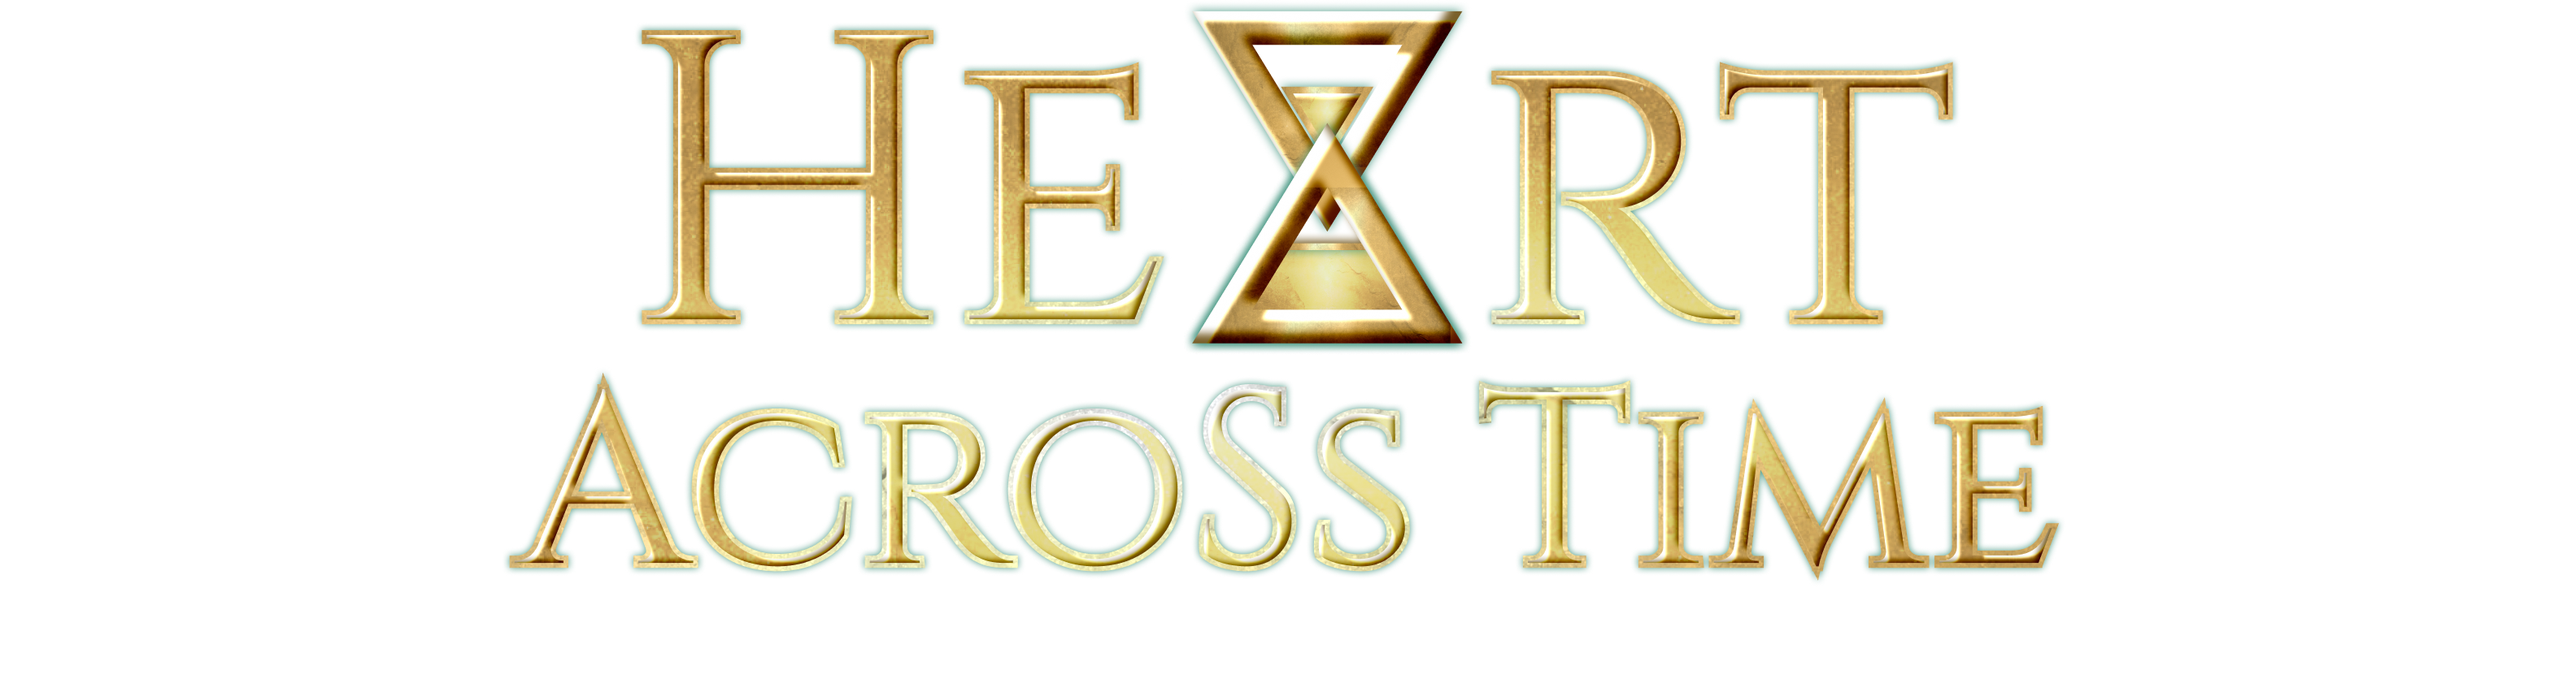
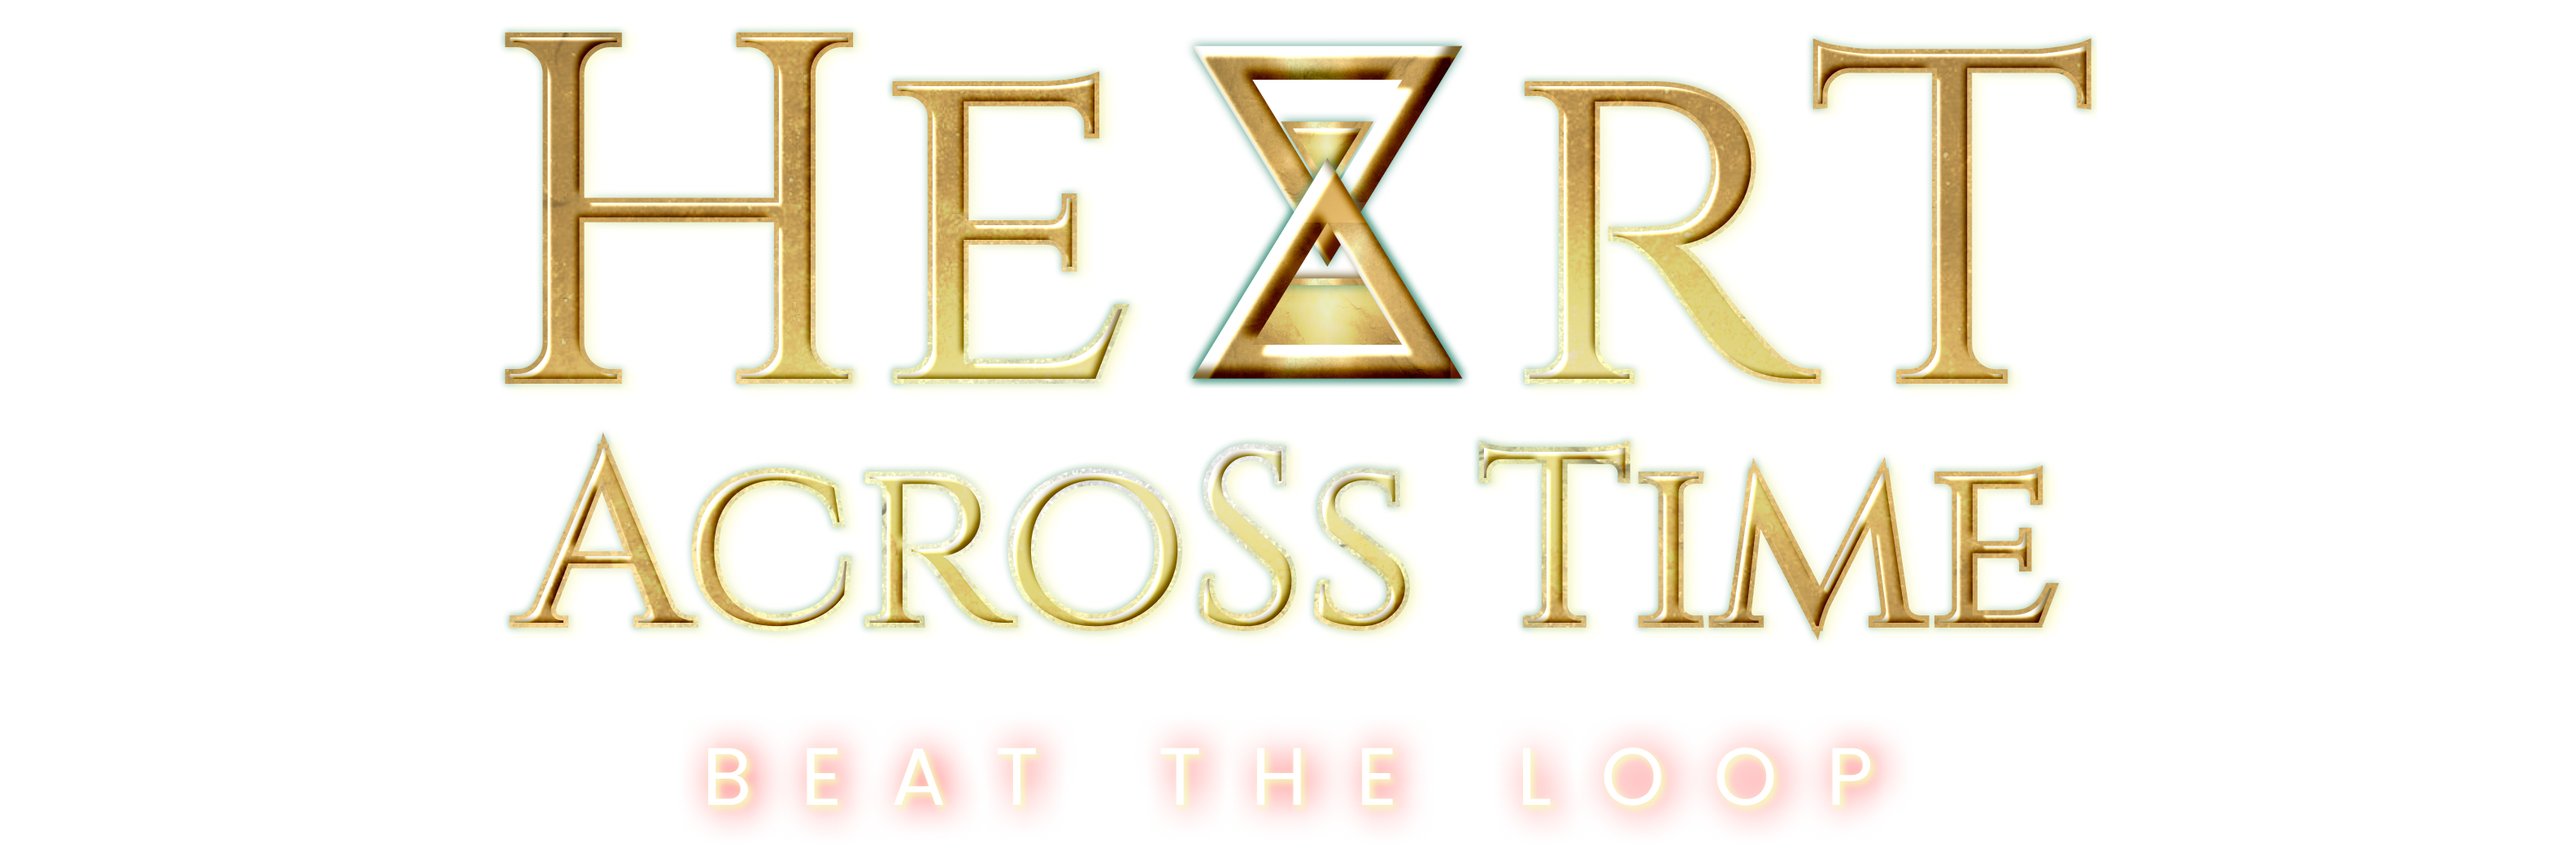
Fiks puzzle babak 1 babak 2

Changed region(s): [[0.1875, 0.0, 0.8125, 0.9708], [0.5938, 0.8495, 0.75, 0.9708], [0.4375, 0.8798, 0.5625, 0.9708]]

diff --git a/src/render/screens.js b/src/render/screens.js
@@ -380,6 +380,20 @@ function drawBonus(c){const b=G.bonus;drawBonusCity(c,b);const n=Object.keys(b.l
 function drawBonusEnd(c){const be=G.bonusEnd,im=AS.imgs.bonus_city_complete;drawCoverImage(c,im,1.01,0,0);c.fillStyle='rgba(4,9,14,.34)';c.fillRect(0,0,W,H);
   c.save();c.translate(390,GROUND+12);c.scale(1.45,1.45);groundShadow(c);drawElena(c,T,0,false,'warm');c.restore();c.save();c.translate(570,GROUND+12);c.scale(-1.45,1.45);groundShadow(c);drawArthur(c,'dewasa',T,'warm');c.restore();
   const a=OPTS.reduceMotion?1:easeO(clamp(be.t*2.2,0,1));c.save();c.globalAlpha=a;sketchRR(c,155,72,650,164,9);c.textAlign='center';c.fillStyle='#94342E';c.font='bold 24px '+F_UI;c.fillText(be.page?'LINGKARAN TELAH PUTUS':'TAHUN 2088 — HARI PERTAMA',W/2,116);c.fillStyle='#2B211A';c.font='18px '+F_UI;const text=be.page?'Kota ini hidup karena setiap akhir yang berani kau hadapi. Elena dan Arthur akhirnya memiliki hari esok.':'Untuk pertama kalinya, masa depan tidak meminta Elena kembali ke masa lalu.';wrap(c,text,555).forEach((ln,i)=>c.fillText(ln,W/2,155+i*25));c.fillStyle='#6A5B4B';c.font='13px '+F_UI;c.fillText(be.t>1?'ENTER / SENTUH UNTUK MELANJUTKAN':'…',W/2,217);c.restore();}
+function drawTitleSignal(c,t){
+  if(OPTS.reduceMotion)return;
+  // Dua frame Figma menjadi dua keadaan sinyal: stabil dan sesaat terbelah.
+  // Lapisan ini selesai digambar sebelum menu agar tombol dan hit-area tidak ikut bergeser.
+  const ph=t%5.2,pulse=ph<.13?1-ph/.13:ph>.92&&ph<1.04?1-Math.abs(ph-.98)/.06:ph>3.34&&ph<3.48?1-Math.abs(ph-3.41)/.07:0;
+  c.save();c.globalAlpha=.055;c.fillStyle='#B8D8F4';for(let y=5;y<H;y+=7)c.fillRect(0,y,W,1);
+  if(pulse>0){
+    const bands=[[24,10,-9],[79,7,12],[126,16,-15],[183,8,10],[248,11,-7],[337,6,13],[421,13,-11],[487,7,8]];
+    bands.forEach((b,i)=>{const y=b[0],h=b[1],dx=b[2]*pulse;c.save();c.beginPath();c.rect(0,y,W,h);c.clip();c.globalAlpha=.7*pulse;c.drawImage(c.canvas,0,y,W,h,dx,y,W,h);c.globalCompositeOperation='screen';c.globalAlpha=.2*pulse;c.fillStyle=i%2?'#E64D76':'#47D9DE';c.fillRect(dx,y,W,h);c.restore();});
+    c.globalCompositeOperation='screen';c.globalAlpha=.16*pulse;c.fillStyle='#E9C66B';c.fillRect(0,116+Math.sin(t*31)*14,W,2+4*pulse);
+    c.globalAlpha=.2*pulse;c.fillStyle='#07101F';c.fillRect(0,276+Math.cos(t*23)*38,W,3);
+  }
+  c.restore();
+}
 function drawCover(c) {
   const mot = OPTS.reduceMotion ? 0 : 1, t = T, pul = mot ? .5 + .5 * Math.sin(t * 1.6) : .5, im = AS.imgs.title_cover_figma;
   const zoom = 1.015 + mot * .012 * Math.sin(t * .18), panX = mot * Math.sin(t * .13) * 5, panY = mot * Math.cos(t * .16) * 3;
@@ -395,6 +409,7 @@ function drawCover(c) {
   // Kode teks prosedural di-comment out karena diganti gambar:
   // else{goldTitle(c,'HE',W/2-86,132,66);goldTitle(c,'RT',W/2+84,132,66);c.save();c.shadowColor=`rgba(255,223,135,${.55+.3*pul})`;c.shadowBlur=16+8*pul;drawHourglass(c,W/2,101,1.72,t);c.restore();goldTitle(c,'ACROSS TIME',W/2,191,43);}
   // c.save();c.textAlign='center';c.font='400 14px '+F_META;c.fillStyle='#FFFDF4';c.strokeStyle='rgba(7,8,18,.78)';c.lineWidth=3;c.shadowColor='rgba(245,255,196,.8)';c.shadowBlur=7;spacedText(c,'BREAK THE LOOP',W/2,225,7);c.restore();
+  drawTitleSignal(c,t);
   // Peta waktu prosedural: hasil yang belum ditemukan tetap berupa segel tanpa spoiler.
   const years=['1944','1968','1999','2088'],xs=[250,403,557,710],my=242;c.save();c.strokeStyle='rgba(242,210,125,.55)';c.lineWidth=2;c.beginPath();c.moveTo(xs[0],my);for(let i=1;i<xs.length;i++){c.quadraticCurveTo((xs[i-1]+xs[i])/2,my+(i%2?14:-14),xs[i],my);}c.stroke();
   years.forEach((y,i)=>{c.fillStyle=i===0||SAVE.game&&+SAVE.game.era>=+y?'#F1D58B':'rgba(245,240,232,.5)';c.beginPath();c.arc(xs[i],my,7,0,TAU);c.fill();c.font='11px '+F_META;c.textAlign='center';c.fillText(y,xs[i],my+23);});
@@ -444,7 +459,7 @@ function drawChallenge(c){const ch=G.challenge,cfg=CHALLENGE_CONF[ch.era];c.fill
     c.fillStyle=PAL.hairEs;c.beginPath();c.arc(0,-27,6,Math.PI,0);c.fill();c.restore();
     const dv=(ch.det||0)/.42; // vignette merah mengikuti deteksi
     if(dv>0){const vg=c.createRadialGradient(W/2,H/2,H*.22,W/2,H/2,H*.62);vg.addColorStop(0,'rgba(170,30,30,0)');vg.addColorStop(1,`rgba(190,30,30,${.42*dv})`);c.fillStyle=vg;c.fillRect(0,0,W,H);}
-    c.fillStyle='#2B211A';c.font='bold 15px '+F_UI;c.fillText('LUNCUR ANTARA KARUNG SAMPAI GARIS — JANGAN TERTANGKAP SOROT',W/2,214);
+    c.fillStyle='#2B211A';c.font='bold 15px '+F_UI;c.fillText('LUNCUR ANTARA KARUNG — SEKALI TERSOROT, KEMBALI KE AWAL',W/2,214);
     c.fillStyle='#6A5B4B';c.font='13px '+F_UI;c.fillText(IS_TOUCH?'tahan ◀ / ▶ di bawah layar untuk berlari':'← → lari antara karung',W/2,352);
   } else if(cfg.mode==='balance'){ // P1: dua meter krio saling tarik
     const meter=(v,col,lbl,y)=>{
@@ -486,15 +501,16 @@ function drawRosePuzzle(c){const rp=G.rosePuzzle;if(!rp)return;c.fillStyle='rgba
   rp.pieces.forEach((p,i)=>{const d=ROSE_PIECES[i],selected=rp.sel===i&&!p.placed;c.save();if(selected){c.shadowColor='rgba(196,59,66,.65)';c.shadowBlur=15;}rosePiecePath(c,d.poly,p.ox,p.oy);c.clip();drawRoseBottleArt(c,ROSE_TARGET.x+p.ox,ROSE_TARGET.y+p.oy,ROSE_TARGET.w,ROSE_TARGET.h);c.restore();c.save();c.strokeStyle=p.placed?'#567A61':selected?'#94342E':'rgba(43,33,26,.72)';c.lineWidth=selected?3:1.7;rosePiecePath(c,d.poly,p.ox,p.oy);c.stroke();if(!p.placed){const q=d.poly[0];c.fillStyle=selected?'#94342E':'#5A4A3C';c.font='bold 12px '+F_META;c.textAlign='center';c.fillText(String(i+1),ROSE_TARGET.x+q[0]+p.ox+14,ROSE_TARGET.y+q[1]+p.oy+18);}c.restore();});
   if(rp.stage==='success'){c.fillStyle='rgba(243,234,218,.96)';c.fillRect(125,155,710,215);c.save();c.shadowColor='rgba(180,62,75,.35)';c.shadowBlur=18;drawRoseBottleArt(c,W/2-112,172,224,192);c.restore();c.fillStyle='#567A61';c.font='bold 27px '+F_UI;c.fillText('BOTOL MAWAR KEMBALI UTUH',W/2,218);c.fillStyle='#2B211A';c.font='16px '+F_UI;c.fillText('Mawar di dalamnya tidak pernah layu.',W/2,338);return;}
   c.fillStyle=rp.feedbackT>0?(rp.feedback.startsWith('KEPINGAN')?'#567A61':'#A83E38'):'#2B211A';c.font='bold 15px '+F_UI;c.fillText(rp.feedbackT>0?rp.feedback:'Seret setiap kepingan ke bayangan botol di tengah.',W/2,414);c.fillStyle='#6A5B4B';c.font='13px '+F_UI;c.fillText(IS_TOUCH?'Seret kepingan • lepaskan tepat saat tepinya menyatu':'Seret dengan mouse • atau 1–8 pilih, ← ↑ ↓ → gerak, SPACE pasang',W/2,446);}
-function drawGemShape(c,x,y,rx,ry,alpha,shadow){const sx=.38+.62*Math.abs(Math.cos(ry)),sy=.5+.5*Math.abs(Math.cos(rx));c.save();c.translate(x,y);c.rotate(ry*.17);c.scale(sx,sy);c.globalAlpha=alpha;c.shadowColor=shadow?'transparent':'rgba(93,220,255,.65)';c.shadowBlur=shadow?0:22;const im=AS.imgs.water_gem_art;
-  if(im&&im.width){if(shadow)c.filter='brightness(0)';c.drawImage(im,650,45,1700,1450,-92,-92,184,184);c.filter='none';}else{const g=shadow?'rgba(25,32,42,.72)':c.createLinearGradient(-80,-80,80,80);if(!shadow){g.addColorStop(0,'#E9FFFF');g.addColorStop(.3,'#76DDEE');g.addColorStop(.62,'#4C78B3');g.addColorStop(1,'#D8FCFF');}c.fillStyle=g;c.beginPath();c.moveTo(0,-92);c.lineTo(74,-34);c.lineTo(60,63);c.lineTo(-18,92);c.lineTo(-78,28);c.lineTo(-65,-48);c.closePath();c.fill();if(!shadow){c.strokeStyle='#D9FBFF';c.lineWidth=3;c.stroke();c.beginPath();c.moveTo(0,-92);c.lineTo(-10,15);c.lineTo(60,63);c.moveTo(-65,-48);c.lineTo(-10,15);c.lineTo(74,-34);c.moveTo(-78,28);c.lineTo(-10,15);c.lineTo(-18,92);c.stroke();}}
+function drawGemShape(c,x,y,rx,ry,alpha,shadow,size=268,grey=false){const sx=.38+.62*Math.abs(Math.cos(ry)),sy=.5+.5*Math.abs(Math.cos(rx)),half=size/2,k=size/184;c.save();c.translate(x,y);c.rotate(ry*.17);c.scale(sx,sy);c.globalAlpha=alpha;c.shadowColor=shadow?'transparent':'rgba(93,220,255,.65)';c.shadowBlur=shadow?0:22;const im=AS.imgs.water_gem_art;
+  if(im&&im.width){c.imageSmoothingEnabled=true;c.imageSmoothingQuality='high';if(shadow)c.filter=grey?'brightness(0) invert(.42)':'brightness(0)';c.drawImage(im,650,45,1700,1450,-half,-half,size,size);c.filter='none';}else{const g=shadow?(grey?'#6B6B6B':'#050505'):c.createLinearGradient(-80*k,-80*k,80*k,80*k);if(!shadow){g.addColorStop(0,'#E9FFFF');g.addColorStop(.3,'#76DDEE');g.addColorStop(.62,'#4C78B3');g.addColorStop(1,'#D8FCFF');}c.fillStyle=g;c.beginPath();c.moveTo(0,-92*k);c.lineTo(74*k,-34*k);c.lineTo(60*k,63*k);c.lineTo(-18*k,92*k);c.lineTo(-78*k,28*k);c.lineTo(-65*k,-48*k);c.closePath();c.fill();if(!shadow){c.strokeStyle='#D9FBFF';c.lineWidth=3;c.stroke();c.beginPath();c.moveTo(0,-92*k);c.lineTo(-10*k,15*k);c.lineTo(60*k,63*k);c.moveTo(-65*k,-48*k);c.lineTo(-10*k,15*k);c.lineTo(74*k,-34*k);c.moveTo(-78*k,28*k);c.lineTo(-10*k,15*k);c.lineTo(-18*k,92*k);c.stroke();}}
   c.restore();}
 function drawGemAlign(c){const ga=G.gemAlign;if(!ga)return;c.fillStyle='rgba(4,6,10,.8)';c.fillRect(0,0,W,H);sketchRR(c,105,38,750,466,10);c.textAlign='center';c.fillStyle='#94342E';c.font='bold 24px '+F_UI;c.fillText('PERMATA AIR',W/2,78);c.fillStyle='#5A4A3C';c.font='13px '+F_META;c.fillText('1999 • PUTAR PERMATA HINGGA SILUETNYA MENYATU DENGAN BAYANGAN',W/2,103);
+  c.fillStyle='rgba(43,33,26,.08)';rr(c,692,112,136,34,6);c.fill();c.strokeStyle='rgba(43,33,26,.52)';c.lineWidth=1.5;rr(c,692,112,136,34,6);c.stroke();c.fillStyle='#493A2E';c.font='bold 12px '+F_UI;c.fillText('↻ ULANG POSISI',760,134);
   c.save();c.setLineDash([6,5]);c.strokeStyle='rgba(67,92,112,.35)';c.lineWidth=1.4;rr(c,270,126,420,260,9);c.stroke();c.setLineDash([]);c.restore();
-  drawGemShape(c,W/2,255,GEM_TARGET.rx,GEM_TARGET.ry,.72,true);drawGemShape(c,W/2,255,ga.rx,ga.ry,.9,false);
+  drawGemShape(c,W/2,255,GEM_TARGET.rx,GEM_TARGET.ry,1,true,276);drawGemShape(c,W/2,255,ga.rx,ga.ry,.76,false,272);
   c.fillStyle='#6A5B4B';c.font='12px '+F_META;c.fillText('BAYANGAN TARGET',W/2,374);
   if(ga.stage==='success'){c.fillStyle='rgba(243,234,218,.96)';c.fillRect(145,174,670,190);c.fillStyle='#567A61';c.font='bold 28px '+F_UI;c.fillText('PERMATA TELAH SELARAS',W/2,250);c.fillStyle='#2B211A';c.font='16px '+F_UI;c.fillText('Setetes air di dalamnya berputar dan memantulkan waktu.',W/2,290);return;}
-  c.fillStyle=ga.feedbackT>0?'#A83E38':'#2B211A';c.font='bold 15px '+F_UI;c.fillText(ga.feedbackT>0?ga.feedback:'Gerakkan permata sampai seluruh tepinya menutup bayangan.',W/2,416);c.fillStyle='#6A5B4B';c.font='13px '+F_UI;c.fillText(IS_TOUCH?'Seret untuk memutar • lepaskan untuk mencocokkan':'Seret mouse • atau ← ↑ ↓ → putar, SPACE / ENTER cocokkan',W/2,446);if(ga.assist){c.fillStyle='#567A61';c.font='bold 13px '+F_UI;c.fillText('BANTUAN AKTIF — toleransi bayangan diperlebar',W/2,472);}}
+  c.fillStyle=ga.feedbackT>0?(ga.feedback.startsWith('POSISI')?'#567A61':'#A83E38'):'#2B211A';c.font='bold 15px '+F_UI;c.fillText(ga.feedbackT>0?ga.feedback:'Gerakkan permata sampai seluruh tepinya menutup bayangan.',W/2,416);c.fillStyle='#6A5B4B';c.font='13px '+F_UI;c.fillText(IS_TOUCH?'Seret untuk memutar • lepaskan untuk mencocokkan':'Seret mouse • ← ↑ ↓ → putar • R ulang • SPACE / ENTER cocokkan',W/2,446);if(ga.assist){c.fillStyle='#567A61';c.font='bold 13px '+F_UI;c.fillText('BANTUAN AKTIF — toleransi bayangan diperlebar',W/2,472);}}
 function photoPiecePath(c,poly,ox,oy){c.beginPath();poly.forEach((p,i)=>{const x=PHOTO_TARGET.x+p[0]+ox,y=PHOTO_TARGET.y+p[1]+oy;i?c.lineTo(x,y):c.moveTo(x,y);});c.closePath();}
 function drawPhotoArt(c,x,y,w,h){const im=AS.imgs.elena_arthur_photo;if(im&&im.width)c.drawImage(im,x,y,w,h);else{const g=c.createLinearGradient(x,y,x+w,y+h);g.addColorStop(0,'#AEBCC2');g.addColorStop(1,'#675E5B');c.fillStyle=g;c.fillRect(x,y,w,h);c.fillStyle='#E8D4B8';c.beginPath();c.arc(x+w*.36,y+h*.43,h*.17,0,TAU);c.arc(x+w*.64,y+h*.43,h*.17,0,TAU);c.fill();c.fillStyle='#2B211A';c.font='bold 18px '+F_UI;c.textAlign='center';c.fillText('ELENA  •  ARTHUR',x+w/2,y+h-20);}}
 function drawPhotoPuzzle(c){const pp=G.photoPuzzle;if(!pp)return;c.fillStyle='rgba(4,6,10,.8)';c.fillRect(0,0,W,H);sketchRR(c,62,31,836,482,10);c.textAlign='center';c.fillStyle='#94342E';c.font='bold 24px '+F_UI;c.fillText('KENANGAN YANG TEROBEK',W/2,69);c.fillStyle='#5A4A3C';c.font='13px '+F_META;c.fillText(pp.stage==='glue'?'FOTO TERSUSUN • REKATKAN SETIAP GARIS ROBEKAN':'1999 • SUSUN EMPAT BAGIAN FOTO ELENA DAN ARTHUR',W/2,95);

diff --git a/src/game/flow.js b/src/game/flow.js
@@ -132,7 +132,7 @@ const WATCH_X=420,WATCH_START=[.68,.08,.39]; // arloji ditemukan saat traversal 
 function randomWatchTargets(){return WATCH_START.map(start=>{let v=start;for(let n=0;n<12&&Math.min(Math.abs(v-start),1-Math.abs(v-start))<.14;n++)v=Math.round((.04+Math.random()*.92)*48)/48;return v;});}
 function watchTargets(){if(!Array.isArray(S.watchTargets)||S.watchTargets.length!==3)S.watchTargets=randomWatchTargets();return S.watchTargets;}
 const ROSE_X=285,ROSE_TARGET={x:355,y:148,w:250,h:214}; // botol pecah ditemukan sebelum penyetelan sinyal Babak 2
-const GEM_X=250,GEM_TARGET={rx:.62,ry:-.86}; // dua temuan wajib Babak 3, sebelum stabilisasi krio
+const GEM_X=250,GEM_START={rx:-.35,ry:.25},GEM_TARGET={rx:.62,ry:-.86}; // dua temuan wajib Babak 3, sebelum stabilisasi krio
 const PHOTO_X=455,PHOTO_TARGET={x:330,y:148,w:300,h:200};
 const ROSE_PIECES=[
   // Delapan pecahan kaca: semua sisi retak berupa garis lurus dan berbagi titik yang sama.
@@ -144,6 +144,10 @@ const ROSE_PIECES=[
   {poly:[[162,214],[72,214],[58,132],[126,108],[112,169]],home:[-240,40]},
   {poly:[[72,214],[0,214],[0,145],[58,132]],home:[-250,-30]},
   {poly:[[0,145],[0,54],[55,73],[108,48],[126,108],[58,132]],home:[-220,-5]}];
+function randomRoseHomes(){const order=ROSE_PIECES.map((_,i)=>i);for(let i=order.length-1;i>0;i--){const j=Math.floor(Math.random()*(i+1)),v=order[i];order[i]=order[j];order[j]=v;}const homes=[],used=[];
+  order.forEach((idx,n)=>{const poly=ROSE_PIECES[idx].poly,xs=poly.map(p=>p[0]),ys=poly.map(p=>p[1]),minX=Math.min(...xs),maxX=Math.max(...xs),minY=Math.min(...ys),maxY=Math.max(...ys),pw=maxX-minX,ph=maxY-minY,side=n<4?0:1,zx=side?[630,870]:[90,330];let box=null;
+    for(let tries=0;tries<48;tries++){const cx=zx[0]+pw/2+Math.random()*Math.max(1,zx[1]-zx[0]-pw),cy=125+ph/2+Math.random()*Math.max(1,370-125-ph),cand={l:cx-pw/2-7,r:cx+pw/2+7,t:cy-ph/2-7,b:cy+ph/2+7,cx,cy};if(!used.some(q=>cand.l<q.r&&cand.r>q.l&&cand.t<q.b&&cand.b>q.t)){box=cand;break;}box=cand;}
+    used.push(box);homes[idx]=[box.cx-ROSE_TARGET.x-(minX+maxX)/2,box.cy-ROSE_TARGET.y-(minY+maxY)/2];});return homes;}
 const PHOTO_PIECES=[
   {poly:[[0,0],[150,0],[145,46],[157,72],[143,100],[0,100]],home:[-220,26]},
   {poly:[[150,0],[300,0],[300,100],[232,97],[205,109],[143,100],[157,72],[145,46]],home:[220,30]},
@@ -160,7 +164,7 @@ function finishChallenge(ch){if(S.challenges[ch.era])return;const approach=ch.se
   for(let i=0;i<18;i++)parts.push({x:W/2+(Math.random()-.5)*180,y:H/2+50,vx:(Math.random()-.5)*120,vy:-35-Math.random()*80,grav:55,l:0,ml:1.2+Math.random(),r:2+Math.random()*2,col:approach==='empathy'?'rgba(240,160,170,.9)':'rgba(120,220,255,.9)',shrink:1});
   SFX.chime();saveCycle();tutorialDone('challenge');}
 function missChallenge(ch){ch.misses++;ch.feedbackT=.9;
-  ch.feedback=ch.era==='1944'?'TERDETEKSI — KEMBALI KE PENDEKIR AWAL':ch.era==='1999'?'KRIO TIDAK STABIL — ULANGI DARI TENGAH':'SINYAL LEPAS — COBA LAGI';
+  ch.feedback=ch.era==='1944'?'TERDETEKSI — KEMBALI KE TITIK AWAL':ch.era==='1999'?'KRIO TIDAK STABIL — ULANGI DARI TENGAH':'SINYAL LEPAS — COBA LAGI';
   if(ch.misses>=3)ch.assist=true;
   if(ch.era==='1944'){ch.px=200;ch.det=0;}
   if(ch.era==='1999'){ch.vit=.55;ch.ser=.55;ch.ok=true;}
@@ -174,15 +178,14 @@ function updateChallenge(dt){const ch=G.challenge,cfg=CHALLENGE_CONF[ch.era];ch.
     if(advHit()){ch.stage='play';ch.t=0;SFX.confirm();}return;}
   // hold zona bawah layar (sentuh) untuk dodge/balance — sama dengan zona jalan
   const touchDir=(IS_TOUCH&&ptr.down&&ptr.y>H-120)?(ptr.x<W/2?-1:1):0;
-  if(cfg.mode==='dodge'){ // P1: lari antar karung, sorot menyapu — deteksi naik saat tertangkap di ruang terbuka
+  if(cfg.mode==='dodge'){ // P1: lari antar karung; sekali tersapu sorot di ruang terbuka langsung kembali ke awal
     const spd=ch.assist?128:178,bx=190+((Math.sin(ch.t*(ch.assist?.6:.92))+1)/2)*580,bw=ch.assist?150:112;
     let dir=0;if(keys['ArrowLeft']||keys['a']||keys['A'])dir--;if(keys['ArrowRight']||keys['d']||keys['D'])dir++;dir+=touchDir;
     ch.bx=bx;ch.bw=bw;
     ch.px=clamp(ch.px+dir*spd*dt,190,764);
     const inCover=[300,480,660].some(cx=>Math.abs(ch.px-cx)<36),inBeam=Math.abs(ch.px-bx)<bw/2;
     ch.cover=inCover;
-    if(inBeam&&!inCover)ch.det=Math.min(.42,ch.det+dt*(ch.assist?.8:1.15));else ch.det=Math.max(0,ch.det-dt*1.8);
-    if(ch.det>=.42){missChallenge(ch);return;}
+    if(inBeam&&!inCover){ch.det=.42;missChallenge(ch);return;}else ch.det=0;
     if(ch.px>=760)finishChallenge(ch);
     return;}
   if(cfg.mode==='balance'){ // P1: dua meter saling tarik-menarik — tahan kiri/kanan, keduanya meluruh perlahan
@@ -219,10 +222,10 @@ function updateWatchRepair(dt){const wr=G.watchRepair;if(!wr)return;wr.t+=dt;if(
   else{wr.misses++;wr.feedback='GIGI RODA BELUM SELARAS';wr.feedbackT=.85;if(wr.misses>=3)wr.assist=true;G.shakeT=OPTS.reduceMotion?0:.18;G.shakeA=4;SFX.flash();}}
 function rosePointIn(poly,x,y){let inside=false;for(let i=0,j=poly.length-1;i<poly.length;j=i++){const a=poly[i],b=poly[j];if(((a[1]>y)!==(b[1]>y))&&(x<(b[0]-a[0])*(y-a[1])/(b[1]-a[1])+a[0]))inside=!inside;}return inside;}
 function startRosePuzzle(){if(S.roseRepaired)return;G.state='rosepuzzle';G.zoom=G.zt=1;G.player.vx=0;
-  G.rosePuzzle={pieces:ROSE_PIECES.map((d,i)=>({ox:d.home[0],oy:d.home[1],placed:false,i})),drag:-1,dx:0,dy:0,sel:0,wasDown:ptr.down,t:0,stage:'play',successT:0,feedback:'SUSUN KEMBALI BOTOL MAWAR',feedbackT:0};tutorialDone('interact');SFX.select();}
+  const homes=randomRoseHomes();G.rosePuzzle={pieces:ROSE_PIECES.map((d,i)=>({ox:homes[i][0],oy:homes[i][1],homeX:homes[i][0],homeY:homes[i][1],placed:false,i})),drag:-1,dx:0,dy:0,sel:0,wasDown:ptr.down,t:0,stage:'play',successT:0,feedback:'SUSUN KEMBALI BOTOL MAWAR',feedbackT:0};tutorialDone('interact');SFX.select();}
 function roseTryPlace(rp,i){const p=rp.pieces[i];if(!p||p.placed)return;const near=Math.hypot(p.ox,p.oy)<22;if(near){p.ox=0;p.oy=0;p.placed=true;rp.feedback='KEPINGAN '+(rp.pieces.filter(q=>q.placed).length)+' / '+rp.pieces.length+' TERPASANG';rp.feedbackT=.8;SFX.confirm();
     if(rp.pieces.every(q=>q.placed)){rp.stage='success';rp.successT=0;S.roseRepaired=true;addStoryItem('flower','BOTOL MAWAR ABADI');}}
-  else{const h=ROSE_PIECES[i].home;p.ox=h[0];p.oy=h[1];rp.feedback='TEPINYA BELUM MENYATU';rp.feedbackT=.8;G.shakeT=OPTS.reduceMotion?0:.14;G.shakeA=3;SFX.flash();}}
+  else{p.ox=p.homeX;p.oy=p.homeY;rp.feedback='TEPINYA BELUM MENYATU';rp.feedbackT=.8;G.shakeT=OPTS.reduceMotion?0:.14;G.shakeA=3;SFX.flash();}}
 function updateRosePuzzle(dt){const rp=G.rosePuzzle;if(!rp)return;rp.t+=dt;if(rp.feedbackT>0)rp.feedbackT-=dt;
   if(rp.stage==='success'){rp.successT+=dt;if(rp.successT>1.2){G.state='walk';G.player.x=ROSE_X+58;G.rosePuzzle=null;G.fadeIn=.24;}return;}
   for(let n=0;n<ROSE_PIECES.length;n++)if(keyOnce(String(n+1))&&!rp.pieces[n].placed){rp.sel=n;SFX.select();}
@@ -236,9 +239,11 @@ function updateRosePuzzle(dt){const rp=G.rosePuzzle;if(!rp)return;rp.t+=dt;if(rp
 function gemAngleDist(a,b){return Math.abs(Math.atan2(Math.sin(a-b),Math.cos(a-b)));}
 function finishGemAlign(ga){if(ga.stage==='success')return;ga.stage='success';ga.successT=0;ga.feedback='BAYANGAN DAN PERMATA TELAH SELARAS';S.gemAligned=true;addStoryItem('water_gem','PERMATA AIR');}
 function gemTryAlign(ga){const dx=gemAngleDist(ga.rx,GEM_TARGET.rx),dy=gemAngleDist(ga.ry,GEM_TARGET.ry),win=ga.assist?.3:.18;if(dx<win&&dy<win)finishGemAlign(ga);else{ga.misses++;ga.feedback='PANTULAN BELUM MENYATU DENGAN BAYANGAN';ga.feedbackT=.9;if(ga.misses>=3)ga.assist=true;G.shakeT=OPTS.reduceMotion?0:.13;G.shakeA=3;SFX.flash();}}
-function startGemAlign(){if(S.gemAligned)return;G.state='gemalign';G.zoom=G.zt=1;G.player.vx=0;G.gemAlign={rx:-.35,ry:.25,drag:false,lastX:0,lastY:0,wasDown:ptr.down,t:0,misses:0,assist:false,feedback:'PUTAR PERMATA HINGGA COCOK DENGAN BAYANGANNYA',feedbackT:0,stage:'play',successT:0};tutorialDone('interact');SFX.select();}
+function resetGemPosition(ga){ga.rx=GEM_START.rx;ga.ry=GEM_START.ry;ga.drag=false;ga.feedback='POSISI PERMATA DIULANG';ga.feedbackT=.85;SFX.select();}
+function startGemAlign(){if(S.gemAligned)return;G.state='gemalign';G.zoom=G.zt=1;G.player.vx=0;G.gemAlign={rx:GEM_START.rx,ry:GEM_START.ry,drag:false,lastX:0,lastY:0,wasDown:ptr.down,t:0,misses:0,assist:false,feedback:'PUTAR PERMATA HINGGA COCOK DENGAN BAYANGANNYA',feedbackT:0,stage:'play',successT:0};tutorialDone('interact');SFX.select();}
 function updateGemAlign(dt){const ga=G.gemAlign;if(!ga)return;ga.t+=dt;if(ga.feedbackT>0)ga.feedbackT-=dt;
   if(ga.stage==='success'){ga.successT+=dt;if(ga.successT>1.2){G.state='walk';G.player.x=GEM_X+58;G.gemAlign=null;G.fadeIn=.24;}return;}
+  if(keyOnce('r')||keyOnce('R')||(ptr.tap&&ptr.x>692&&ptr.x<828&&ptr.y>112&&ptr.y<146)){ptr.tap=false;resetGemPosition(ga);return;}
   let dx=0,dy=0;if(keys['ArrowLeft']||keys['a']||keys['A'])dx--;if(keys['ArrowRight']||keys['d']||keys['D'])dx++;if(keys['ArrowUp']||keys['w']||keys['W'])dy--;if(keys['ArrowDown']||keys['s']||keys['S'])dy++;
   if(dx||dy){ga.ry+=dx*dt*(ga.assist?1.25:1.65);ga.rx+=dy*dt*(ga.assist?1.25:1.65);}
   if(ptr.tap&&ptr.x>270&&ptr.x<690&&ptr.y>135&&ptr.y<380){ga.drag=true;ga.lastX=ptr.x;ga.lastY=ptr.y;ptr.tap=false;SFX.select();}

diff --git a/index.html b/index.html
@@ -37,8 +37,8 @@
 <script src="src/render/world.js?v=20260822-6"></script>
 <script src="src/ui/dialog.js?v=20260819-6"></script>
 <script src="src/data/story.js?v=20260822-7"></script>
-<script src="src/game/flow.js?v=20260822-10"></script>
-<script src="src/render/screens.js?v=20260822-12"></script>
+<script src="src/game/flow.js?v=20260822-12"></script>
+<script src="src/render/screens.js?v=20260822-16"></script>
 <script src="src/game/main.js?v=20260820-1"></script>
 </body>
 </html>
